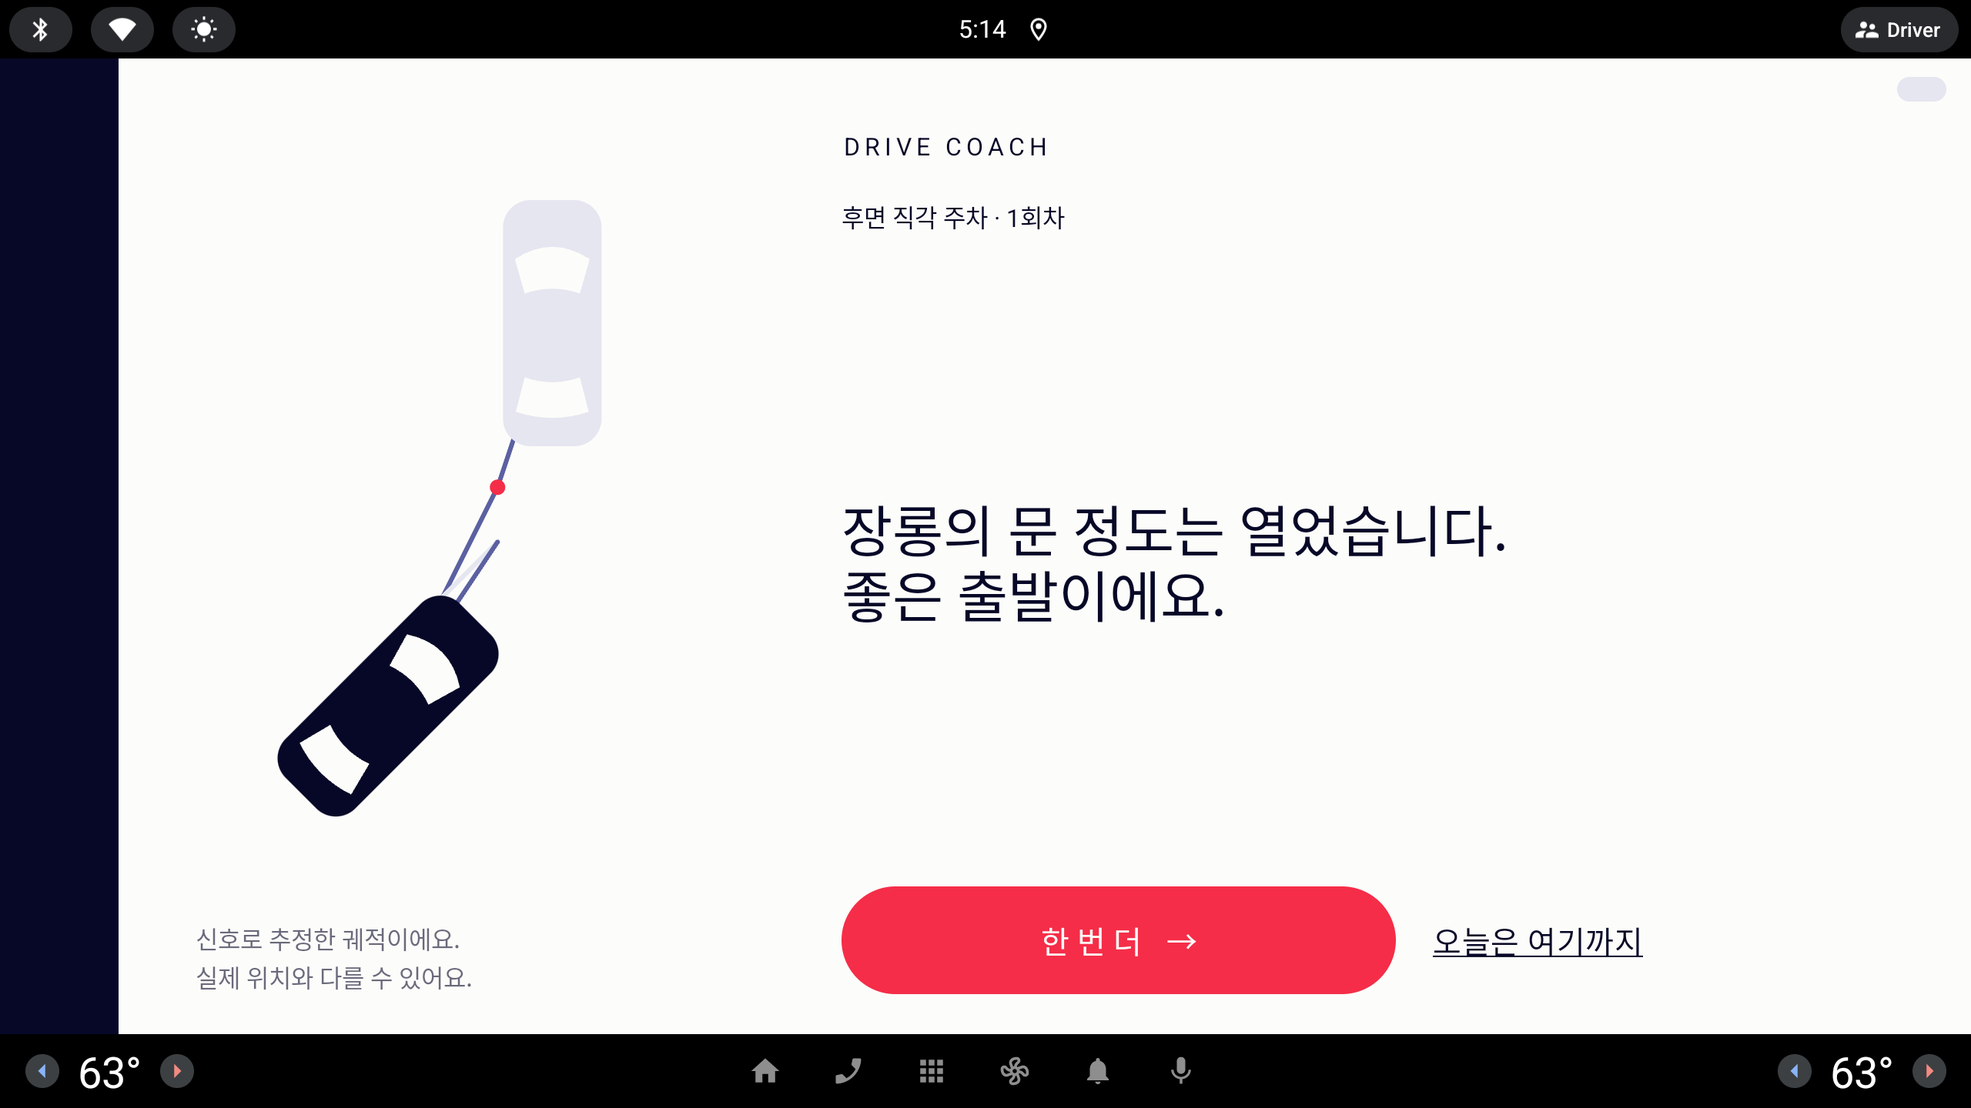
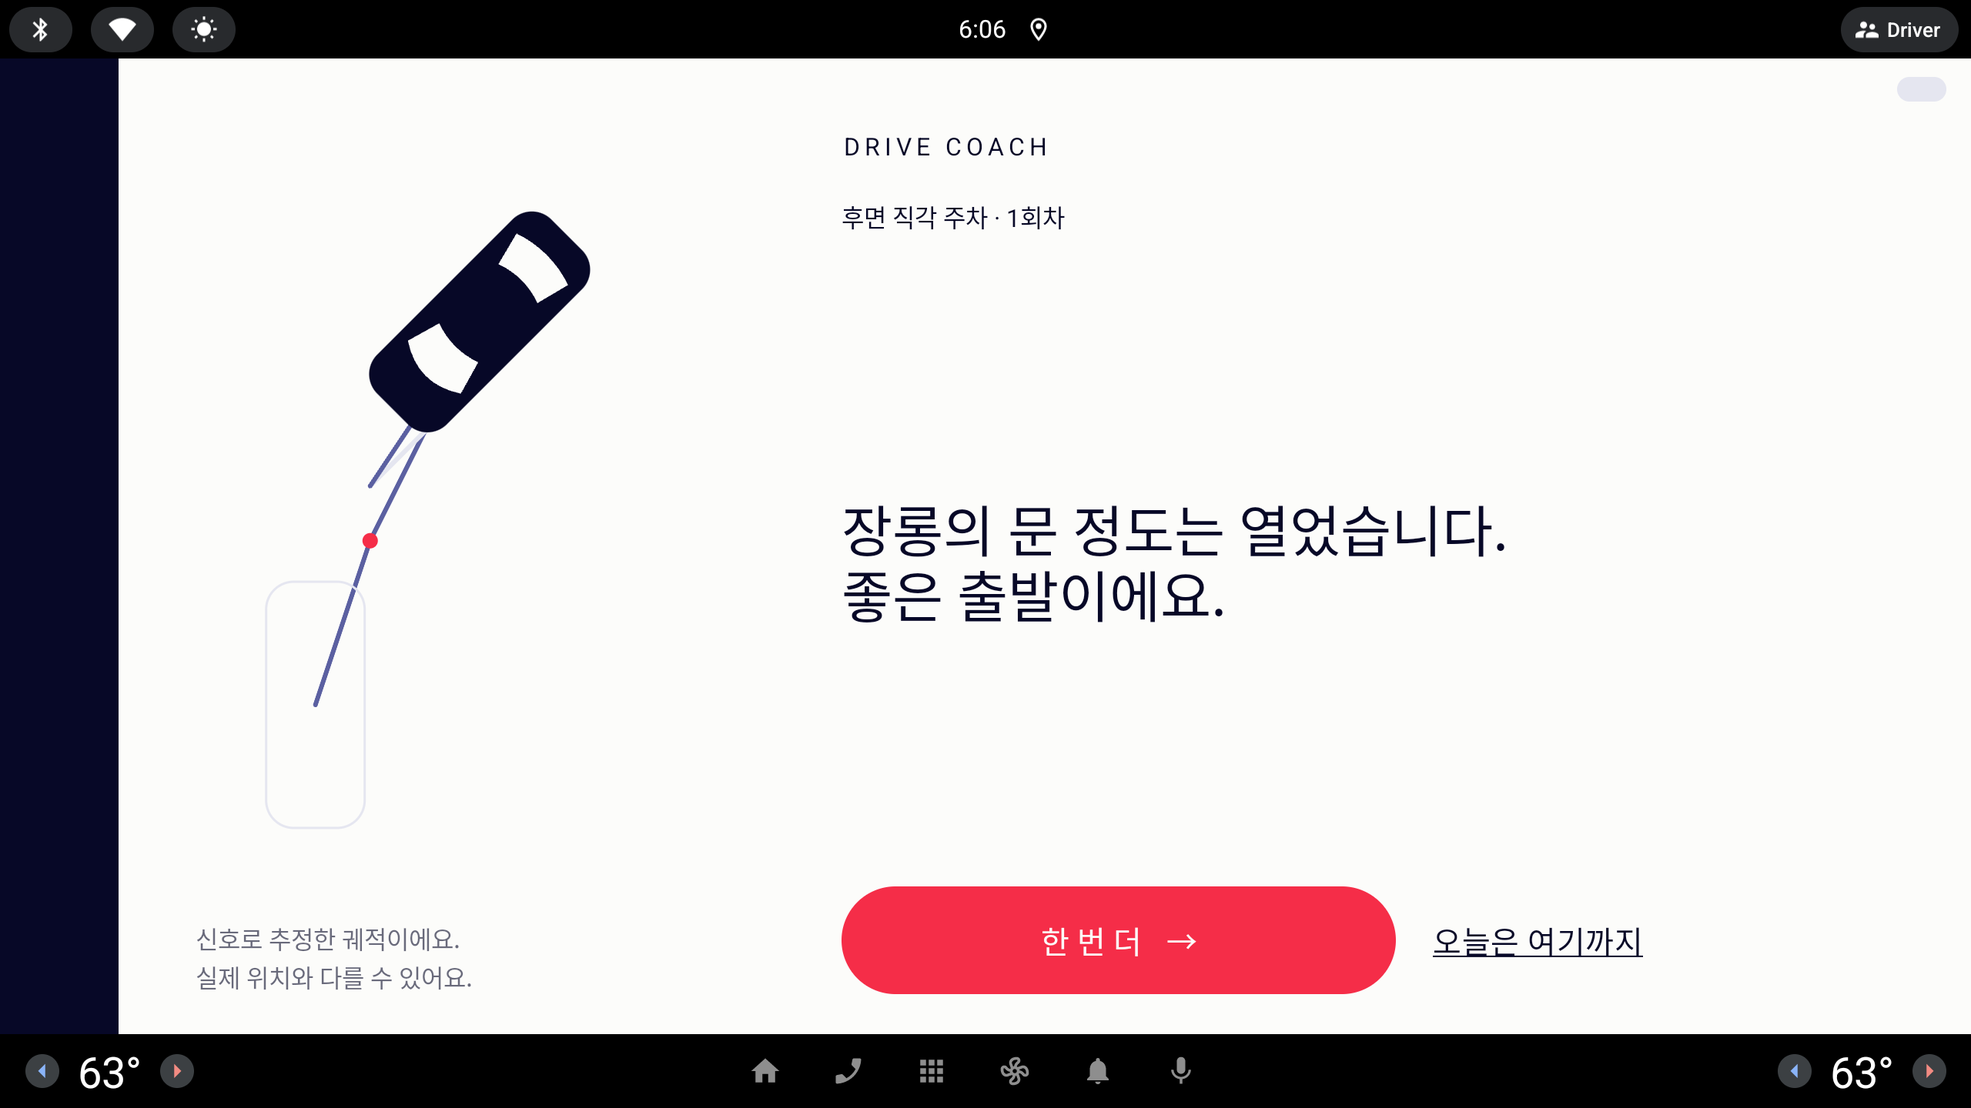
ui: align Done replay with rear-up parking view

Changed region(s): [[0.125, 0.4688, 0.25, 0.75], [0.1875, 0.1875, 0.3125, 0.4375], [0.25, 0.4062, 0.2812, 0.4375]]

diff --git a/automotive/src/androidTest/kotlin/com/moah/hackathon/ui/LessonScreenInstrumentation.kt b/automotive/src/androidTest/kotlin/com/moah/hackathon/ui/LessonScreenInstrumentation.kt
@@ -11,6 +11,7 @@ import androidx.activity.compose.setContent
 import androidx.compose.material3.MaterialTheme
 import androidx.compose.runtime.Composable
 import androidx.compose.runtime.mutableStateOf
+import androidx.compose.ui.graphics.toArgb
 import com.moah.hackathon.App
 import com.moah.hackathon.data.SeedCatalog
 import com.moah.hackathon.feature.lesson.*
@@ -64,7 +65,17 @@ class LessonScreenInstrumentation : Instrumentation() {
             check(nodes().none { it.isClickable && descendants(it).any { child -> child.text?.toString() == planned.title } })
             check(texts().contains("준비 중"))
             assertDriverButton(activity, "시작")
-            capture("setup-sheet")
+            val selectedBounds = buttonBounds(task.title)
+            capture("setup-sheet") { bitmap ->
+                val stripeWidth = (12 * designScale(activity)).toInt()
+                (0 until stripeWidth).forEach { x ->
+                    check(bitmap.getPixel(selectedBounds.left + x, selectedBounds.centerY()) == CoachColors.Ink.toArgb()) {
+                        "Selected task stripe is not Ink at x=$x"
+                    }
+                }
+                check(bitmap.getPixel(selectedBounds.left + stripeWidth + 1, selectedBounds.centerY()) == CoachColors.Periwinkle.toArgb())
+            }
+            pass("Selected task has a 12 dp Ink stripe on Periwinkle")
             click("힌트")
             click("시작")
             runOnMainSync { check(started == task.id to LessonMode.HINT) }
@@ -272,7 +283,19 @@ class LessonScreenInstrumentation : Instrumentation() {
             assertPanelCollapsed()
             check(texts().containsAll(listOf("신호로 추정한 궤적이에요.", "실제 위치와 다를 수 있어요.")))
             assertNoDoneMetrics()
-            capture("done-path-contract")
+            check(allText().none { "셰브론" in it })
+            val pathBounds = Rect().also { bounds ->
+                nodes().first { it.contentDescription?.toString() == "추정 궤적" }.getBoundsInScreen(bounds)
+            }
+            capture("done-path-contract") { bitmap ->
+                val endCar = colorBounds(bitmap, pathBounds, CoachColors.Ink.toArgb())
+                val startOutline = colorBounds(bitmap, pathBounds, CoachColors.Lavender.toArgb())
+                check(!endCar.isEmpty && !startOutline.isEmpty) { "Missing end car or start outline" }
+                check(endCar.centerY() < pathBounds.centerY() && startOutline.centerY() > pathBounds.centerY()) {
+                    "Done must be rear-up: end=$endCar, start=$startOutline, canvas=$pathBounds"
+                }
+            }
+            pass("Done rear-up pixels: Ink end car above, Lavender start outline below; settled semantics have no chevron or metrics")
             render(activity) { DoneScreen(task, 1, record.copy(path = listOf(path.first(), path.first().copy(y = .49f))), null, {}, {}) }
             check(allText().none { it == "추정 궤적" })
             val checklistRecord = record.copy(taskId = SeedCatalog.predriveTask.id, remark = "순서를 잘 익혔어요.\n다음에도 벨트부터 확인해요.",
@@ -380,14 +403,18 @@ class LessonScreenInstrumentation : Instrumentation() {
     private fun buttonBounds(label: String) = Rect().also { buttonNode(label).getBoundsInScreen(it) }
     private fun assertDriverButton(activity: MainActivity, label: String) {
         val bounds = buttonBounds(label)
+        val density = designScale(activity)
+        check(kotlin.math.abs(bounds.height() / density - 140f) <= 1f && bounds.width() / density >= 719f) {
+            "$label driver bounds: $bounds / $density"
+        }
+    }
+    private fun designScale(activity: MainActivity): Float {
         var density = 1f
         runOnMainSync {
             val content = activity.findViewById<android.view.View>(android.R.id.content)
             density = checkNotNull(com.moah.hackathon.ui.concepts.designDensity(content.width, content.height))
         }
-        check(kotlin.math.abs(bounds.height() / density - 140f) <= 1f && bounds.width() / density >= 719f) {
-            "$label driver bounds: $bounds / $density"
-        }
+        return density
     }
     private fun scrollTo(label: String) {
         repeat(12) {
@@ -398,10 +425,21 @@ class LessonScreenInstrumentation : Instrumentation() {
         }
         error("Not visible after scrolling: $label")
     }
-    private fun capture(name: String) {
+    private fun colorBounds(bitmap: Bitmap, region: Rect, color: Int): Rect {
+        val bounds = Rect()
+        for (y in region.top until region.bottom) for (x in region.left until region.right) {
+            if (bitmap.getPixel(x, y) == color) bounds.union(x, y, x + 1, y + 1)
+        }
+        return bounds
+    }
+    private fun capture(name: String, verify: (Bitmap) -> Unit = {}) {
         val screenshot = checkNotNull(uiAutomation.takeScreenshot())
-        File(targetContext.filesDir, "lesson-$name.png").outputStream().use { screenshot.compress(Bitmap.CompressFormat.PNG, 100, it) }
-        screenshot.recycle()
+        try {
+            File(targetContext.filesDir, "lesson-$name.png").outputStream().use { screenshot.compress(Bitmap.CompressFormat.PNG, 100, it) }
+            verify(screenshot)
+        } finally {
+            screenshot.recycle()
+        }
     }
     private fun pass(message: String) { sendStatus(0, Bundle().apply { putString("stream", "PASS $message\n") }) }
 }

diff --git a/automotive/src/main/kotlin/com/moah/hackathon/ui/lesson/EstimatedPath.kt b/automotive/src/main/kotlin/com/moah/hackathon/ui/lesson/EstimatedPath.kt
@@ -42,19 +42,25 @@ internal fun EstimatedPath(record: AttemptRecord, modifier: Modifier) {
             val elapsed = time.value.roundToLong()
             val revealed = pathThroughTime(record.path, elapsed)
             fun position(point: PathPoint) = Offset(viewport.x(point.x).dp.toPx(), viewport.y(point.y).dp.toPx())
-            pathLegs(revealed).forEach { leg ->
-                drawPath(Path().apply {
-                    leg.points.forEachIndexed { index, point ->
-                        val p = position(point)
-                        if (index == 0) moveTo(p.x, p.y) else lineTo(p.x, p.y)
-                    }
-                }, if (leg.reversing) CoachColors.Periwinkle else CoachColors.Lavender,
-                    style = Stroke(6.dp.toPx(), cap = StrokeCap.Round, join = StrokeJoin.Round))
-            }
-            pathCar(position(record.path.first()), record.path.first().headingDeg, viewport.scale.dp.toPx(), CoachColors.Lavender)
-            pathCar(position(revealed.last()), revealed.last().headingDeg, viewport.scale.dp.toPx(), CoachColors.Ink)
-            record.score.metrics.harshEvents.filter { it.tMillis <= elapsed }.forEach { event ->
-                nearestPathPoint(record.path, event.tMillis)?.let { drawCircle(CoachColors.Signal, 10.dp.toPx(), position(it)) }
+            // Match Maneuver's rear-up convention without changing recorded coordinates or time.
+            rotate(180f, pivot = center) {
+                pathLegs(revealed).forEach { leg ->
+                    drawPath(Path().apply {
+                        leg.points.forEachIndexed { index, point ->
+                            val p = position(point)
+                            if (index == 0) moveTo(p.x, p.y) else lineTo(p.x, p.y)
+                        }
+                    }, if (leg.reversing) CoachColors.Periwinkle else CoachColors.Lavender,
+                        style = Stroke(6.dp.toPx(), cap = StrokeCap.Round, join = StrokeJoin.Round))
+                }
+                pathCar(position(record.path.first()), record.path.first().headingDeg, viewport.scale.dp.toPx(),
+                    CoachColors.Lavender, outline = true)
+                val current = revealed.last()
+                pathCar(position(current), current.headingDeg, viewport.scale.dp.toPx(), CoachColors.Ink,
+                    reversing = time.isRunning && elapsed < record.path.last().tMillis && current.reversing)
+                record.score.metrics.harshEvents.filter { it.tMillis <= elapsed }.forEach { event ->
+                    nearestPathPoint(record.path, event.tMillis)?.let { drawCircle(CoachColors.Signal, 10.dp.toPx(), position(it)) }
+                }
             }
         }
         Column(Modifier.padding(start = 100.dp, end = 32.dp), verticalArrangement = Arrangement.spacedBy(4.dp)) {
@@ -64,13 +70,19 @@ internal fun EstimatedPath(record: AttemptRecord, modifier: Modifier) {
     }
 }
 
-private fun DrawScope.pathCar(center: Offset, heading: Float, scale: Float, color: Color) {
+private fun DrawScope.pathCar(center: Offset, heading: Float, scale: Float, color: Color,
+    outline: Boolean = false, reversing: Boolean = false) {
     val width = 1.8f * scale
     val height = 4.5f * scale
     // Compose rotates clockwise; PathPoint heading is counterclockwise from screen-up.
     rotate(-heading, center) {
         val left = center.x - width / 2
         val top = center.y - height / 2
+        if (outline) {
+            drawRoundRect(color, Offset(left, top), Size(width, height), CornerRadius(width * .28f),
+                style = Stroke(3.dp.toPx()))
+            return@rotate
+        }
         drawRoundRect(color, Offset(left, top), Size(width, height), CornerRadius(width * .28f))
         drawPath(Path().apply {
             moveTo(left + width * .12f, top + height * .24f)
@@ -78,6 +90,14 @@ private fun DrawScope.pathCar(center: Offset, heading: Float, scale: Float, colo
             lineTo(left + width * .78f, top + height * .38f)
             quadraticTo(center.x, top + height * .34f, left + width * .22f, top + height * .38f); close()
         }, CoachColors.Paper)
+        if (reversing) {
+            val rear = center.y + height / 2 + .6f * scale
+            drawPath(Path().apply {
+                moveTo(center.x - width * .36f, rear - width * .16f)
+                lineTo(center.x, rear)
+                lineTo(center.x + width * .36f, rear - width * .16f)
+            }, CoachColors.Signal, style = Stroke(6.dp.toPx(), cap = StrokeCap.Round, join = StrokeJoin.Round))
+        }
         drawPath(Path().apply {
             moveTo(left + width * .22f, top + height * .72f)
             quadraticTo(center.x, top + height * .76f, left + width * .78f, top + height * .72f)

diff --git a/automotive/src/main/kotlin/com/moah/hackathon/ui/lesson/SetupScreen.kt b/automotive/src/main/kotlin/com/moah/hackathon/ui/lesson/SetupScreen.kt
@@ -101,8 +101,8 @@ private fun TaskChoice(task: Task, chosen: Boolean, modifier: Modifier, onClick:
     val foreground = when { !task.isReady -> CoachColors.Muted; chosen -> CoachColors.Paper; else -> CoachColors.Ink }
     // Disabled tasks deliberately have no onClick semantics (even a disabled clickable action would leak).
     val action = if (task.isReady) Modifier.clickable(role = Role.Button, onClick = onClick) else Modifier.semantics { disabled() }
-    val stripe = when (task.type) {
-        TaskType.PARKING -> if (chosen && task.isReady) CoachColors.Paper else CoachColors.Periwinkle
+    val stripe = if (chosen) CoachColors.Ink else when (task.type) {
+        TaskType.PARKING -> CoachColors.Periwinkle
         TaskType.DRIVING -> CoachColors.Ink
         TaskType.CHECKLIST -> CoachColors.Signal
         TaskType.KNOWLEDGE -> CoachColors.Periwinkle.copy(alpha = .4f)

diff --git a/docs/screenshots/lesson/README.md b/docs/screenshots/lesson/README.md
@@ -1,20 +1,17 @@
-# UI 라운드 4 검증 캡처
+# UI 라운드 5 검증 캡처
 
-2026-09-28 · `codex/ui-round4` · 기준 `origin/main=12092f6` · CSTDe_API_34 2560×1440 · 기본 Fake, 배율 1.0. 사용자 결정 확정: D1 = (나) 알약, D2 = `코치` 유지. 텍스트 토글 구현·비교 캡처는 제거했다.
+2026-09-28 · `codex/ui-round5` · 기준 `origin/main=1364e91` · CSTDe_API_34 2560×1440 · 기본 Fake, 배율 1.0. Done을 Maneuver와 같은 **뒤가 위** 관습으로 맞췄다. 라운드 4에서 확정한 알약 토글·`코치`는 유지한다.
 
-- `lesson-*.png`: 최신 계측 캡처. `contract.txt`에 `Lesson contract passed`.
-- `lesson-done.png`: 실제 못한 주차 첫 회차 Done. `lesson-done-path.png`: 실제 잘한 주차 두 번째 회차 Done.
-- `lesson-done-no-path.png`: 빈 경로의 기존 배치. `lesson-done-path-contract.png`: 전후진·급정지·회전 방향을 확인하는 고정 입력.
-- `lesson-demo-toggle-pill.png`: 확정된 무텍스트 알약. 그림 64×32dp, 접근성 터치 영역은 Compose 최소 48dp 높이로 확장된다. 그림 아래와 속도 값 사이 24dp.
-- `lesson-maneuver-guides.png` / `lesson-maneuver-b.png`: 오른쪽 450°의 앞바퀴·호·점선 두 줄·풀이. 발주서 §1 각도 구간표를 따라 `한 바퀴`로 표시한다(§2 예시의 `한 바퀴 반`과 불일치 — INTEGRATION C절).
-- `lesson-panel-open.png`: 본문 폭을 유지하는 420dp 레일, 72dp 버튼·12dp 간격·구분선·2열 조작.
-- `lesson-setup-sheet.png`: 유형 띠 12dp, 선택 주차 띠 Paper 반전. 첫 화면·시트 `시작`, `다 됐어요`, `한 번 더` 모두 높이 140dp·폭 720dp 이상.
-- `session-report.png`: 실제 두 회차 후 도어 열림으로 진입한 Report.
+- `lesson-done-path-contract.png`: 전후진·급정지·회전을 포함한 고정 입력. Ink 완료 차량이 위, Lavender 3dp 시작 윤곽이 아래에 있다. 계측에서 Canvas 내부 색상 bounds를 검사한다.
+- `lesson-done-path.png` / `16_done_2.png`: 이번 `emu_flow`의 실제 잘한 주차 두 번째 회차 Done 원본(두 파일은 동일). 4초 대기 뒤의 정지 그림이다.
+- `lesson-done.png`: 이번 `emu_flow`의 실제 못한 주차 첫 회차 Done(`14_done_1.png`), 역시 4초 대기 뒤 정지 그림.
+- `lesson-setup-sheet.png`: 선택 카드의 12dp Ink 띠. 계측에서 띠 전체 폭과 바로 옆 Periwinkle 바탕을 픽셀로 확인한다.
+- 그 외 화면은 변경이 없어 라운드 4 캡처를 유지한다. 전체 화면의 이번 재검증 캡처는 `build/round5-shots/`, 실제 흐름 캡처는 `build/round5-flow/`에 있다.
 
-`flow.txt`: 최종 코드로 수정 없는 원본 `tools/emu_flow.sh` PASS, uiautomator clashes 0, 리포트까지 116초. 첫 회차 60/55·이동 4회, 두 번째 100/100·이동 2회, 힌트 3종·잘한 주차 추가 힌트 0건·도어·배지 확인. 알약의 contentDescription으로 패널 열기·자동 접힘을 실제 시연에서 통과했다. 원본의 `14_done_1.png`·`16_done_2.png`는 2초 대기로 재생 중일 수 있어, 같은 실행에서 Done 로그 3.7초 뒤 추가한 `screencap`을 `lesson-done.png`·`lesson-done-path.png`로 썼다. 원본과 추가 정지 캡처는 `build/round4-ready-flow/`에 있다. 도구 수정 요청은 INTEGRATION C절.
+`flow.txt`: 수정 없는 원본 `tools/emu_flow.sh` **PASS**, uiautomator clashes 0, 리포트까지 120초. 첫 회차 60/55·이동 4회, 두 번째 100/100·이동 2회, 힌트 3종·잘한 주차 추가 힌트 0건·도어·배지 확인. main에 반영된 Done 4초 대기를 그대로 사용했다.
 
-애니메이션 리뷰 파일(저장소에 커밋하지 않음): `build/round4-ready-clips/steering.mp4`(0 → 오른쪽 450° → 0), `build/round4-ready-clips/done.mp4`(0.5초 대기 후 기록 시각에 맞춘 3초 재생). 각 5초·1280×720·30fps, 계측 고정 입력이다. `screenrecord --time-limit 5` 원본은 같은 폴더의 `*-screenrecord.mp4`. Android가 변화 없는 마지막 구간을 프레임으로 저장하지 않아 최종 프레임만 5초까지 유지했다. 움직임의 속도는 바꾸지 않았다.
+Done 재생 클립(저장소에 커밋하지 않음): `C:/Project/17_hackathon-pivot/build/round5-clips/lesson-round4-done.mp4`. 계측의 `/sdcard/lesson-round4-done.mp4`를 파일명·내용 그대로 가져왔다. 1280×720, `screenrecord --time-limit 5`의 원본이며 변화 없는 마지막 구간은 프레임으로 저장되지 않아 파일 길이는 약 3.723초다. 후진 중 셰브론 표시, 전진 보정 중 숨김, 마지막 정지 프레임에서 숨김을 확인했다. 기록 데이터·순수 함수·0.5초 대기와 3초 재생 속도는 그대로다.
 
 `flow-round3-default.txt`는 수정 전 원본의 중복 조회로 시간 감점 경계를 넘어 첫 회차 58점이 된 실패 기록이다. `flow-round3-proposal.txt`는 같은 패치를 임시 사본으로 먼저 검증한 PASS 기록(109초)이며, `flow-{initial,baseline,proposal}.txt`는 라운드 2 이력이다.
 
-`build-round4.txt`: 빌드·단위 테스트·계측 APK 빌드 성공. 단위 테스트 154개, 실패·오류 0. `contract.txt`: 무텍스트 알약의 접근성 클릭·잠금·주 버튼 bounds·미측정·풀이·보조선·재생 중 다음 회차 전환·재생 후 정지 캡처를 포함해 `Lesson contract passed`.
+`build-round5.txt`: `assembleDebug testDebugUnitTest :automotive:assembleDebugAndroidTest` 성공. 단위 테스트 154개, 실패·오류 0. `contract.txt`: **Lesson contract passed**. 회전 방향·선택 띠 픽셀 검사와 정지 상태의 셰브론 언급 없음 검사를 추가했다. 기존 알약 접근성·잠금·140dp × 720dp 이상 주 버튼·미측정·보조선·재생 중 다음 회차 전환·Done 숫자 금지·캡션 계약도 통과했다. `ui/`의 Bold 0건, 색 리터럴은 `CoachStyle.kt`의 5토큰만 확인했다.

diff --git a/docs/INTEGRATION.md b/docs/INTEGRATION.md
@@ -78,6 +78,8 @@
 
 ## C. 요청 (Codex → Claude / Claude → Codex)
 
+- [2026-09-28] [Codex→Claude] **UI 라운드 5 구현·검증 완료, 리뷰 및 NEXT 반영 요청**: `codex/ui-round5`는 `origin/main=1364e91`에서 분기했다. Done Canvas 180° 회전·후진 재생 중 셰브론·시작 차량 Lavender 3dp 윤곽선, Setup 선택 카드 12dp Ink 띠를 구현했다. 기록 데이터·`PathPresentation` 순수 함수·금지 영역·도구는 변경하지 않았다. 빌드·단위 테스트 154개·회전/띠 픽셀 검사를 포함한 `Lesson contract passed`·원본 `emu_flow` PASS(60/55 → 100/100, 리포트 120초, clashes 0). Done 고정/실제 캡처와 Setup 시트, 검증 로그를 교체했고 원본 Done 클립은 `build/round5-clips/lesson-round4-done.mp4`에 보관했다. `NEXT.md`의 완료 상태 갱신은 문서 소유자에게 요청한다.
+
 - [2026-09-28] [Codex→Claude] **UI 라운드 4 결정 반영·최종 검증 완료 / NEXT 갱신 요청**: PR #29, `codex/ui-round4`는 발주서가 머지된 `origin/main=12092f6`에서 분기. 사용자 확정 D1 = (나) 알약, D2 = `코치` 유지. 텍스트 토글 구현·상태 분기·비교 계측·캡처를 제거했고 사용자 지시대로 Ready 전환한다. 최종 코드로 빌드·단위 테스트 154개·계측 APK 빌드, `Lesson contract passed`, 원본 `emu_flow.sh` PASS·clashes 0(60/55 → 100/100, 리포트 116초). `docs/screenshots/lesson/` 캡처·검증 로그 갱신. 다시 녹화한 5초 클립 2개는 `build/round4-ready-clips/{steering,done}.mp4`(계측 고정 입력, screenrecord 원본도 같은 폴더). 화면·화면 테스트·캡처·이 요청 외 플랫폼/상태기계/채점/데이터/빌드/도구 변경 없음. 문서 소유자가 NEXT의 라운드 4 상태를 결정 완료·리뷰 대기로 갱신해 주세요. (**반영** — 리뷰·머지 PR #29 `090ec40`, NEXT 9i ✅)
 
 - [2026-09-28] [Codex→Claude] **라운드 4 발주서 문구 정합성**: §1의 명시적 구간표는 `380 ≤ |deg| < 560 → 한 바퀴`, §2 예시는 `오른쪽 450° ↔ 오른쪽으로 한 바퀴 반`으로 서로 다르다. 구현·단위 테스트·계측은 §1 구간표를 따른다(`450° → 한 바퀴`, `560°부터 한 바퀴 반`). 문서 예시 정정을 요청한다. 풀이의 32sp 보조색은 Ink 바탕에서 읽히도록 기존 on-ink 라벨과 같은 `Paper 60%`를 썼다(`Muted = Ink 60%`는 Ink 바탕과 같아 읽히지 않음). 새 색 토큰은 없다. (**반영** — 발주서 §2·피드백 문서 #7 예시를 "한 바퀴" 로 정정. 구현·테스트가 맞다)
